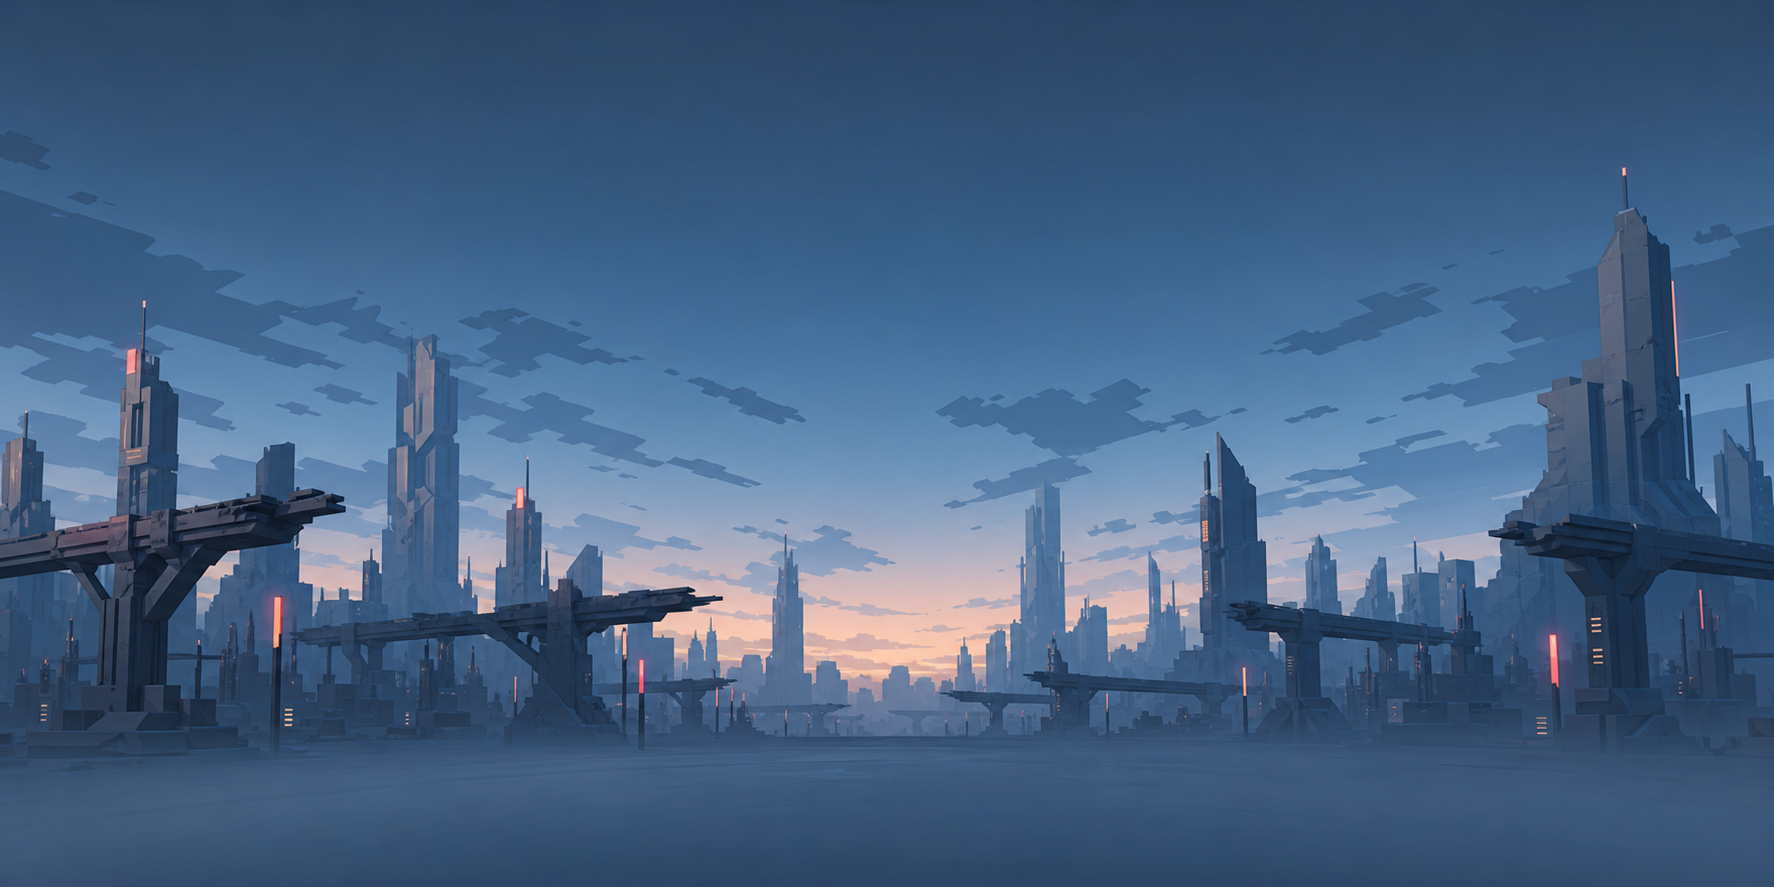
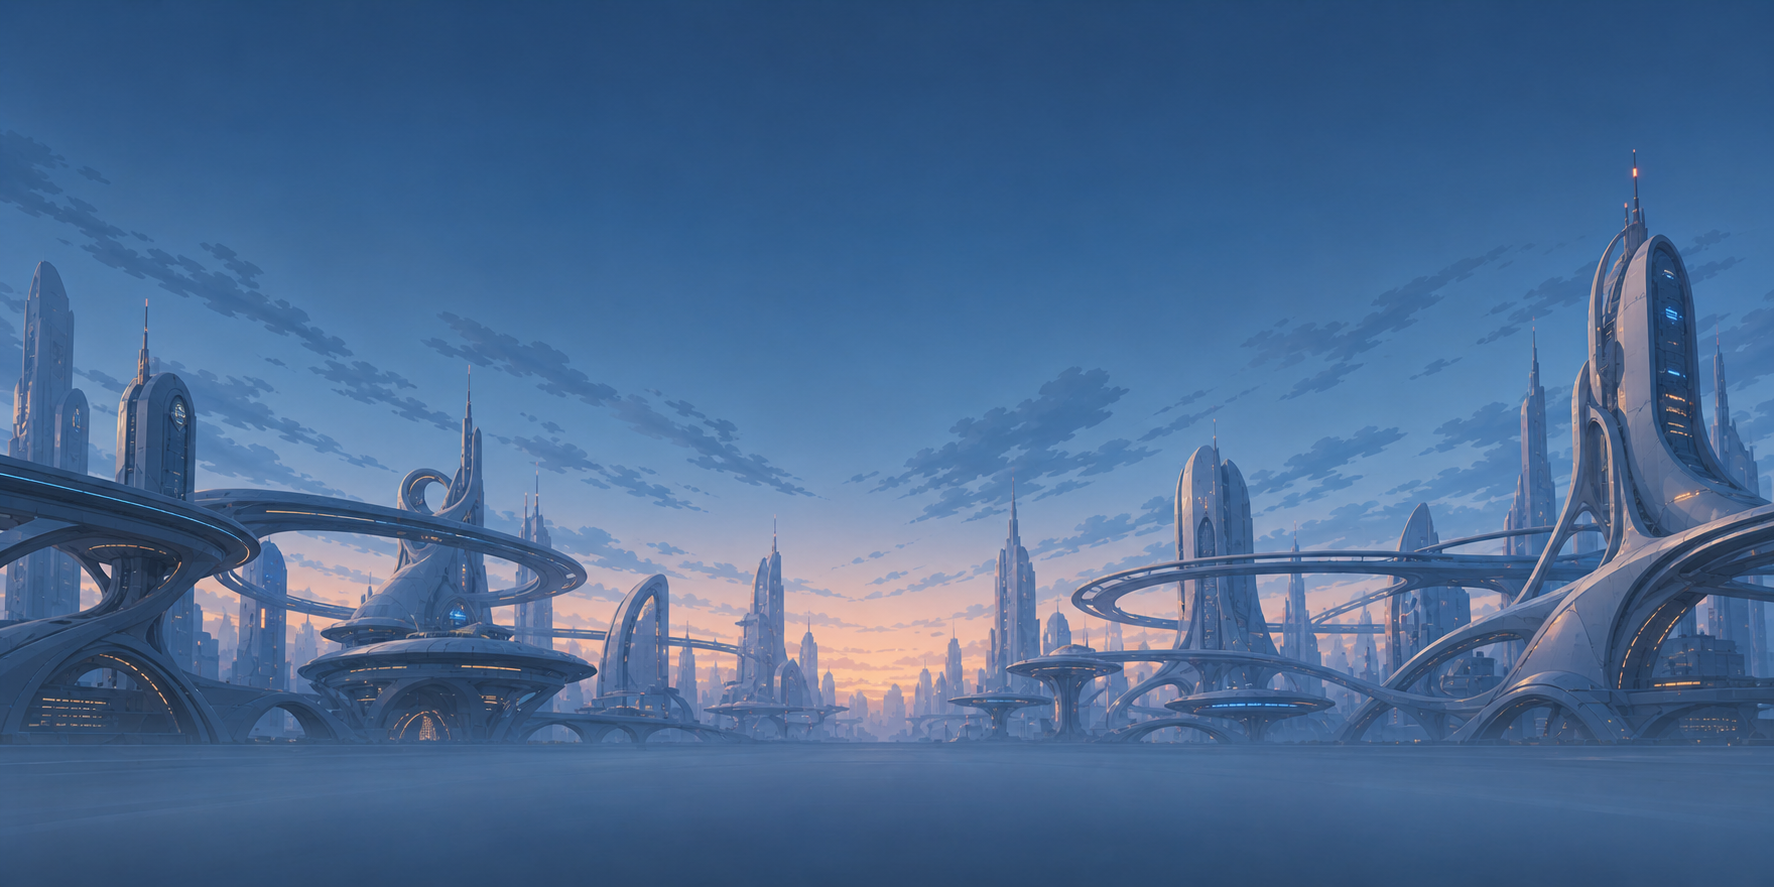
polish transit art and adaptive audio

diff --git a/Assets/Scripts/AudioManager.cs b/Assets/Scripts/AudioManager.cs
@@ -29,6 +29,7 @@ public class AudioManager : MonoBehaviour
 
     // Procedural audio cache
     private Dictionary<string, AudioClip> _procClips = new Dictionary<string, AudioClip>();
+    private const int SampleRate = 22050;
 
     void Awake()
     {
@@ -40,10 +41,12 @@ public class AudioManager : MonoBehaviour
         _sfxSource = gameObject.AddComponent<AudioSource>();
         _sfxSource.playOnAwake = false;
         _sfxSource.loop = false;
+        _sfxSource.spatialBlend = 0f;
 
         _musicSource = gameObject.AddComponent<AudioSource>();
         _musicSource.playOnAwake = false;
         _musicSource.loop = true;
+        _musicSource.spatialBlend = 0f;
         _musicSource.volume = musicVolume;
     }
 
@@ -53,11 +56,10 @@ public class AudioManager : MonoBehaviour
         sfxVolume = PlayerPrefs.GetFloat("SfxVolume", 1f);
         if (_musicSource != null) _musicSource.volume = musicVolume;
 
-        if (bgmClip != null)
-        {
-            _musicSource.clip = bgmClip;
-            _musicSource.Play();
-        }
+        AudioClip music = bgmClip != null ? bgmClip : GetProceduralClip("bgm");
+        if (music == null) return;
+        _musicSource.clip = music;
+        _musicSource.Play();
     }
 
     void Update()
@@ -68,7 +70,7 @@ public class AudioManager : MonoBehaviour
         if (_footstepTimer >= footstepInterval)
         {
             _footstepTimer = 0f;
-            PlaySFX(footstepClip, 0.15f);
+            PlaySFX(footstepClip, 0.18f, "footstep");
         }
     }
 
@@ -118,12 +120,14 @@ public class AudioManager : MonoBehaviour
 
         AudioClip proc = key switch
         {
-            "jump"   => GenerateToneSweep(300f, 550f, 0.15f),
-            "slide"  => GenerateNoise(0.12f),
-            "coin"   => GenerateToneSweep(800f, 1200f, 0.1f),
-            "dodge"  => GenerateToneSweep(400f, 200f, 0.1f),
-            "death"  => GenerateToneSweep(400f, 60f, 0.4f),
-            _        => GenerateNoise(0.05f),
+            "bgm"      => GenerateTransitLoop(),
+            "footstep" => GenerateFootstep(),
+            "jump"     => GenerateToneSweep(260f, 620f, 0.18f),
+            "slide"    => GenerateNoiseBurst(0.18f, 0.18f),
+            "coin"     => GenerateToneSweep(760f, 1320f, 0.13f),
+            "dodge"    => GenerateToneSweep(520f, 240f, 0.14f),
+            "death"    => GenerateToneSweep(360f, 52f, 0.48f),
+            _           => GenerateNoiseBurst(0.06f, 0.12f),
         };
         _procClips[key] = proc;
         return proc;
@@ -131,34 +135,109 @@ public class AudioManager : MonoBehaviour
 
     AudioClip GenerateToneSweep(float freqStart, float freqEnd, float duration)
     {
-        int sampleRate = 44100;
-        int samples = Mathf.CeilToInt(sampleRate * duration);
+        int samples = Mathf.CeilToInt(SampleRate * duration);
         float[] data = new float[samples];
         for (int i = 0; i < samples; i++)
         {
-            float t = (float)i / sampleRate;
+            float t = (float)i / SampleRate;
             float freq = Mathf.Lerp(freqStart, freqEnd, t / duration);
-            float envelope = 1f - (t / duration); // linear fade
-            data[i] = Mathf.Sin(2f * Mathf.PI * freq * t) * envelope * 0.4f;
+            float normalized = Mathf.Clamp01(t / duration);
+            float attack = Mathf.Clamp01(normalized / 0.08f);
+            float envelope = attack * Mathf.Pow(1f - normalized, 1.6f);
+            float phase = 2f * Mathf.PI * freq * t;
+            data[i] = (Mathf.Sin(phase) + Mathf.Sin(phase * 2f) * 0.18f)
+                      * envelope * 0.32f;
         }
-        AudioClip clip = AudioClip.Create("proc_" + duration, samples, 1, sampleRate, false);
+        AudioClip clip = AudioClip.Create("proc_tone_" + duration, samples, 1, SampleRate, false);
         clip.SetData(data, 0);
         return clip;
     }
 
-    AudioClip GenerateNoise(float duration)
+    AudioClip GenerateNoiseBurst(float duration, float level)
     {
-        int sampleRate = 44100;
-        int samples = Mathf.CeilToInt(sampleRate * duration);
+        int samples = Mathf.CeilToInt(SampleRate * duration);
         float[] data = new float[samples];
+        var random = new System.Random(7319 + samples);
+        float filtered = 0f;
         for (int i = 0; i < samples; i++)
         {
-            float t = (float)i / sampleRate;
-            float envelope = 1f - (t / duration);
-            data[i] = (Random.value * 2f - 1f) * envelope * 0.25f;
+            float normalized = i / (float)Mathf.Max(1, samples - 1);
+            float white = (float)(random.NextDouble() * 2.0 - 1.0);
+            filtered = Mathf.Lerp(filtered, white, 0.22f);
+            float envelope = Mathf.Sin(Mathf.PI * normalized)
+                             * Mathf.Pow(1f - normalized, 0.7f);
+            data[i] = filtered * envelope * level;
         }
-        AudioClip clip = AudioClip.Create("proc_noise_" + duration, samples, 1, sampleRate, false);
+        AudioClip clip = AudioClip.Create("proc_noise_" + duration, samples, 1, SampleRate, false);
         clip.SetData(data, 0);
         return clip;
+    }
+
+    AudioClip GenerateFootstep()
+    {
+        const float duration = 0.11f;
+        int samples = Mathf.CeilToInt(SampleRate * duration);
+        float[] data = new float[samples];
+        var random = new System.Random(1907);
+        float filtered = 0f;
+        for (int i = 0; i < samples; i++)
+        {
+            float t = i / (float)SampleRate;
+            float normalized = t / duration;
+            float envelope = Mathf.Pow(1f - Mathf.Clamp01(normalized), 3f);
+            float white = (float)(random.NextDouble() * 2.0 - 1.0);
+            filtered = Mathf.Lerp(filtered, white, 0.14f);
+            float body = Mathf.Sin(2f * Mathf.PI * 82f * t) * 0.62f;
+            data[i] = (body + filtered * 0.38f) * envelope * 0.34f;
+        }
+        AudioClip clip = AudioClip.Create("proc_footstep", samples, 1, SampleRate, false);
+        clip.SetData(data, 0);
+        return clip;
+    }
+
+    AudioClip GenerateTransitLoop()
+    {
+        const float duration = 16f;
+        int samples = Mathf.CeilToInt(SampleRate * duration);
+        float[] data = new float[samples];
+        int[] arpeggio = { 0, 7, 12, 7, 3, 10, 12, 15 };
+
+        for (int i = 0; i < samples; i++)
+        {
+            float t = i / (float)SampleRate;
+            float beatPhase = Mathf.Repeat(t * 2f, 1f);
+            float beatEnvelope = Mathf.Exp(-beatPhase * 11f);
+            float pulse = Mathf.Sin(2f * Mathf.PI * 58f * t) * beatEnvelope;
+
+            float pad = Mathf.Sin(2f * Mathf.PI * 55f * t) * 0.46f
+                        + Mathf.Sin(2f * Mathf.PI * 82.5f * t) * 0.22f
+                        + Mathf.Sin(2f * Mathf.PI * 110f * t) * 0.12f;
+
+            float stepPosition = Mathf.Repeat(t * 2f, 1f);
+            int step = Mathf.FloorToInt(t * 2f) % arpeggio.Length;
+            float noteFrequency = 220f * Mathf.Pow(2f, arpeggio[step] / 12f);
+            float noteEnvelope = Mathf.Sin(Mathf.PI * stepPosition);
+            noteEnvelope *= noteEnvelope * Mathf.Pow(1f - stepPosition, 0.35f);
+            float signal = Mathf.Sin(2f * Mathf.PI * noteFrequency * t)
+                           + Mathf.Sin(2f * Mathf.PI * noteFrequency * 2f * t) * 0.12f;
+
+            float longBreath = 0.72f + Mathf.Sin(2f * Mathf.PI * t / 8f) * 0.18f;
+            data[i] = Mathf.Clamp((pad * 0.105f * longBreath)
+                                  + (pulse * 0.055f)
+                                  + (signal * noteEnvelope * 0.045f), -0.28f, 0.28f);
+        }
+
+        AudioClip clip = AudioClip.Create("proc_transit_loop", samples, 1, SampleRate, false);
+        clip.SetData(data, 0);
+        return clip;
+    }
+
+    void OnDestroy()
+    {
+        if (Instance != this) return;
+        foreach (AudioClip clip in _procClips.Values)
+            if (clip != null) Destroy(clip);
+        _procClips.Clear();
+        Instance = null;
     }
 }

diff --git a/Assets/Scripts/WorldStyler.cs b/Assets/Scripts/WorldStyler.cs
@@ -41,7 +41,7 @@ public class WorldStyler : MonoBehaviour
                 : CameraClearFlags.SolidColor;
             camera.farClipPlane = 140f;
             camera.fieldOfView = 56f;
-            camera.backgroundColor = new Color(0.03f, 0.04f, 0.055f);
+            camera.backgroundColor = new Color(0.16f, 0.22f, 0.31f);
 
             CameraFollow follow = camera.GetComponent<CameraFollow>();
             if (follow != null) follow.offset = new Vector3(0f, 4.6f, -8.2f);
@@ -76,14 +76,14 @@ public class WorldStyler : MonoBehaviour
     {
         RenderSettings.fog = true;
         RenderSettings.fogMode = FogMode.Linear;
-        RenderSettings.fogColor = new Color(0.06f, 0.075f, 0.10f);
-        RenderSettings.fogStartDistance = 40f;
-        RenderSettings.fogEndDistance = 112f;
+        RenderSettings.fogColor = new Color(0.27f, 0.36f, 0.49f);
+        RenderSettings.fogStartDistance = 58f;
+        RenderSettings.fogEndDistance = 138f;
         RenderSettings.ambientMode = UnityEngine.Rendering.AmbientMode.Trilight;
-        RenderSettings.ambientSkyColor = new Color(0.36f, 0.40f, 0.46f);
-        RenderSettings.ambientEquatorColor = new Color(0.18f, 0.21f, 0.26f);
-        RenderSettings.ambientGroundColor = new Color(0.065f, 0.075f, 0.095f);
-        RenderSettings.reflectionIntensity = 0.36f;
+        RenderSettings.ambientSkyColor = new Color(0.72f, 0.78f, 0.88f);
+        RenderSettings.ambientEquatorColor = new Color(0.44f, 0.52f, 0.64f);
+        RenderSettings.ambientGroundColor = new Color(0.18f, 0.23f, 0.31f);
+        RenderSettings.reflectionIntensity = 0.62f;
 
         Material skyAsset = Resources.Load<Material>("Art/EchoSky");
         if (skyAsset != null)
@@ -98,8 +98,8 @@ public class WorldStyler : MonoBehaviour
         Light key = FindObjectOfType<Light>();
         if (key != null)
         {
-            key.intensity = 1.02f;
-            key.color = new Color(0.90f, 0.93f, 0.98f);
+            key.intensity = 1.34f;
+            key.color = new Color(1f, 0.96f, 0.90f);
             key.shadows = LightShadows.Soft;
         }
 
@@ -109,23 +109,23 @@ public class WorldStyler : MonoBehaviour
         fillObject.transform.rotation = Quaternion.Euler(38f, 145f, 0f);
         Light fill = fillObject.AddComponent<Light>();
         fill.type = LightType.Directional;
-        fill.intensity = 0.42f;
-        fill.color = new Color(0.46f, 0.55f, 0.66f);
+        fill.intensity = 0.72f;
+        fill.color = new Color(0.66f, 0.78f, 1f);
         fill.shadows = LightShadows.None;
     }
 
     private void BuildPalette()
     {
         _structureMaterial = MakeMaterial("EchoStructure",
-            new Color(0.15f, 0.18f, 0.22f), Color.black, 0.38f, 0.52f);
+            new Color(0.43f, 0.49f, 0.58f), new Color(0.018f, 0.025f, 0.038f), 0.58f, 0.74f);
         _deepStructureMaterial = MakeMaterial("EchoDepth",
-            new Color(0.06f, 0.075f, 0.095f), Color.black, 0.1f, 0.28f);
+            new Color(0.16f, 0.21f, 0.29f), new Color(0.008f, 0.014f, 0.025f), 0.30f, 0.50f);
         _cyanMaterial = MakeMaterial("EchoCyan",
-            new Color(0.24f, 0.40f, 0.55f), new Color(0.02f, 0.10f, 0.18f), 0.15f, 0.46f);
+            new Color(0.30f, 0.62f, 0.94f), new Color(0.035f, 0.22f, 0.56f), 0.26f, 0.68f);
         _coralMaterial = MakeMaterial("EchoCoral",
-            new Color(0.65f, 0.28f, 0.25f), new Color(0.22f, 0.03f, 0.025f), 0.1f, 0.38f);
+            new Color(0.94f, 0.40f, 0.31f), new Color(0.52f, 0.055f, 0.025f), 0.16f, 0.52f);
         _goldMaterial = MakeMaterial("EchoGold",
-            new Color(0.72f, 0.54f, 0.30f), new Color(0.24f, 0.10f, 0.02f), 0.45f, 0.58f);
+            new Color(1.00f, 0.68f, 0.30f), new Color(0.54f, 0.20f, 0.018f), 0.58f, 0.76f);
     }
 
     private void BuildStraightEnvironment(Transform parent, int seed)
@@ -153,7 +153,7 @@ public class WorldStyler : MonoBehaviour
         if (variant == 0)
             BuildSignalArch(parent, 6.5f);
         else if (variant == 1)
-            BuildFloatingMarkers(parent);
+            BuildTransitHalos(parent);
         else
             BuildDataTotems(parent);
     }
@@ -232,17 +232,31 @@ public class WorldStyler : MonoBehaviour
             new Vector3(0f, 0f, 90f));
     }
 
-    private void BuildFloatingMarkers(Transform parent)
+    private void BuildTransitHalos(Transform parent)
     {
         for (int side = -1; side <= 1; side += 2)
         {
-            CreateCapsule("FloatMarker", parent, new Vector3(side * 12f, 6f, 1f),
-                new Vector3(0.42f, 1.85f, 0.42f), _structureMaterial,
-                new Vector3(0f, 0f, side * 18f));
-            CreateCapsule("FloatLight", parent, new Vector3(side * 12f, 6f, 0.55f),
-                new Vector3(0.1f, 1.12f, 0.06f),
-                side > 0 ? _goldMaterial : _cyanMaterial,
-                new Vector3(0f, 0f, side * 18f));
+            GameObject halo = new GameObject("TransitHalo");
+            halo.transform.SetParent(parent, false);
+            Vector3 center = new Vector3(side * 12.2f, 4.8f, 0.5f);
+            const int segments = 8;
+            const float radius = 2.2f;
+            for (int i = 0; i < segments; i++)
+            {
+                float a0 = i * Mathf.PI * 2f / segments;
+                float a1 = (i + 1) * Mathf.PI * 2f / segments;
+                Vector3 start = center + new Vector3(
+                    Mathf.Cos(a0) * radius, Mathf.Sin(a0) * radius, 0f);
+                Vector3 end = center + new Vector3(
+                    Mathf.Cos(a1) * radius, Mathf.Sin(a1) * radius, 0f);
+                CreateBeam("HaloArc", halo.transform, start, end, 0.13f,
+                    i == 1 || i == 5
+                        ? (side > 0 ? _goldMaterial : _cyanMaterial)
+                        : _structureMaterial);
+            }
+            CreateCylinder("HaloPylon", halo.transform,
+                new Vector3(center.x, 2.1f, center.z + 0.25f),
+                new Vector3(0.30f, 2.1f, 0.30f), _deepStructureMaterial);
         }
     }
 
@@ -439,7 +453,9 @@ public class WorldStyler : MonoBehaviour
     private static Material MakeMaterial(string name, Color color, Color emission,
         float metallic, float smoothness)
     {
-        Shader shader = Shader.Find("Universal Render Pipeline/Lit");
+        Shader shader = UnityEngine.Rendering.GraphicsSettings.currentRenderPipeline != null
+            ? Shader.Find("Universal Render Pipeline/Lit")
+            : Shader.Find("Standard");
         if (shader == null) shader = Shader.Find("Standard");
         if (shader == null) shader = Shader.Find("Mobile/Diffuse");
         Material material = new Material(shader) { name = name };
